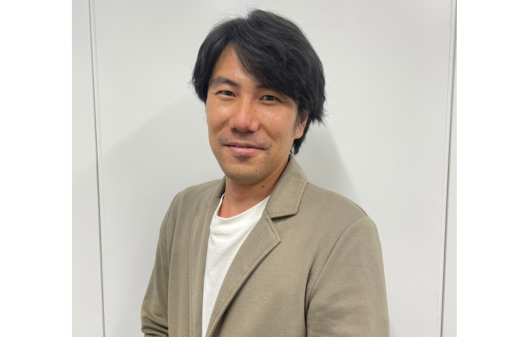
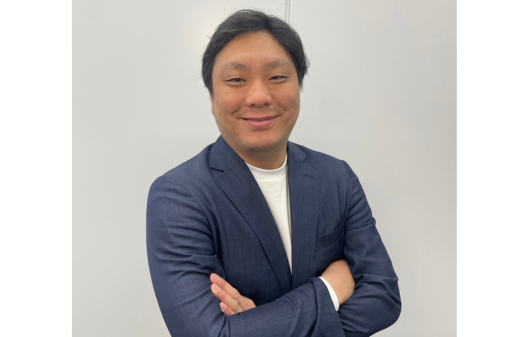
change CA area for imada

diff --git a/index.html b/index.html
@@ -820,13 +820,16 @@
                                 class="rounded-[0.32rem] w-full">
                             <p
                                 class="absolute right-0 bottom-0 text-28 md:text-22 font-bold bg-white w-o-180 text-center rounded-tl-[0.1rem] pt-o-8">
-                                高橋 建</p>
+                                今田 賢人</p>
                         </div>
                         <div class="text-24 md:text-18 leading-o-18">
-                            <p>転職という【人生のターニングポイント】で人生をより豊かで華やかにできるキャリアアドバイザーでありたいと私は考えております。</p>
+                            <p>前職ではSaaS領域でのセールスをリクルートで7年培ってきました。
+                                主にアウトソーシング事業を担当していたので、営業職に特化した転職のサポートが強みになります。
+                                </p>
                             <p class="mb-o-40"> </p>
-                            <p>不安や悩みに共に向き合い、自分自身では見つけ出すことが難しい<span
-                                    class="text-[#13C716] font-bold">「あなたにしかない魅力」</span>を見つけるサポートをいたします。</p>
+                            <p>転職という人生の大きな分岐点で不安なことも多くあると思いますが、転職に慣れている人などいません。
+                                相談しやすいエージェントを目指し、 皆様の<span
+                                    class="text-[#13C716] font-bold">大きな一歩をサポート</span>させていただきます。</p>
                         </div>
                     </div>
                 </div>
